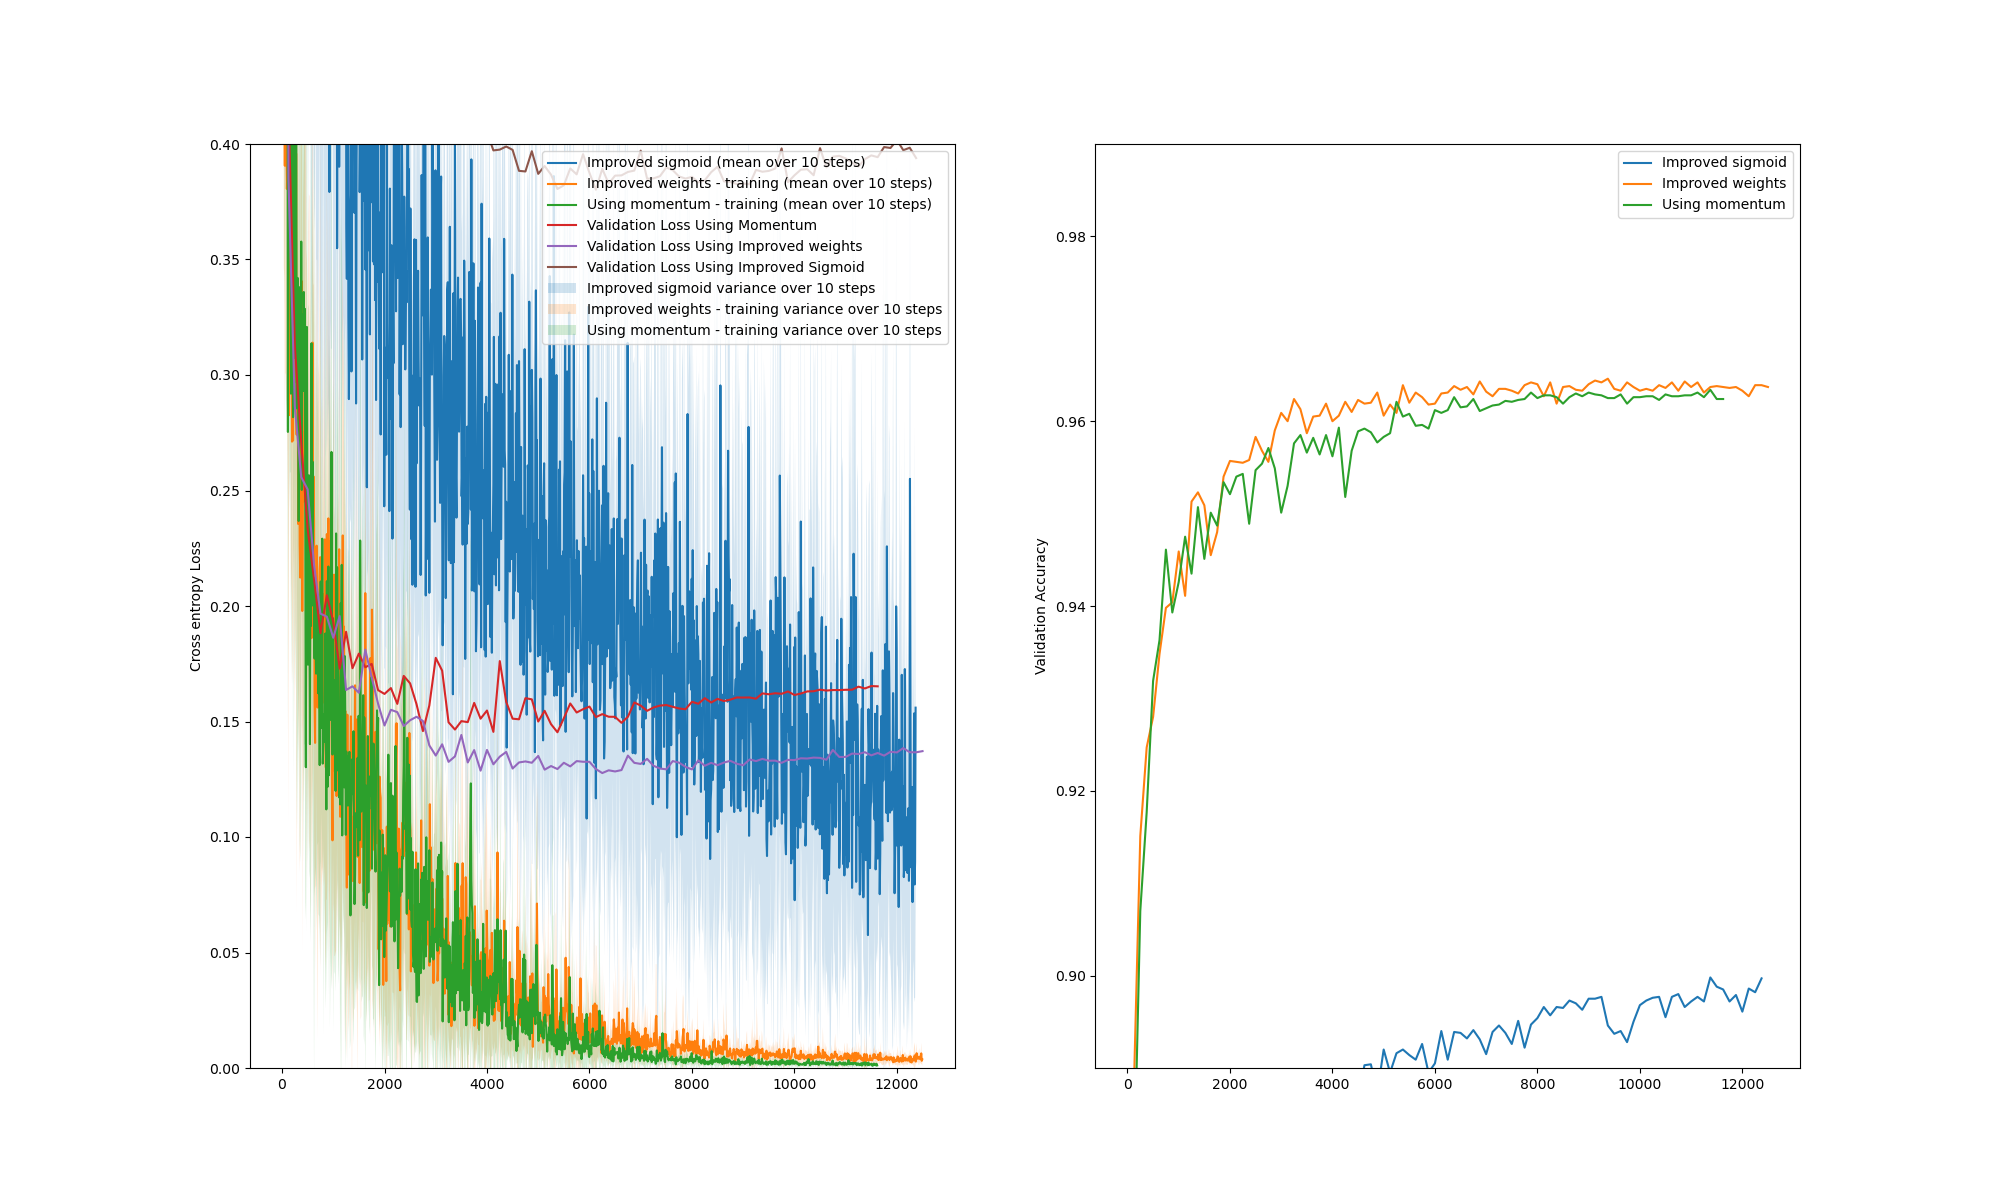
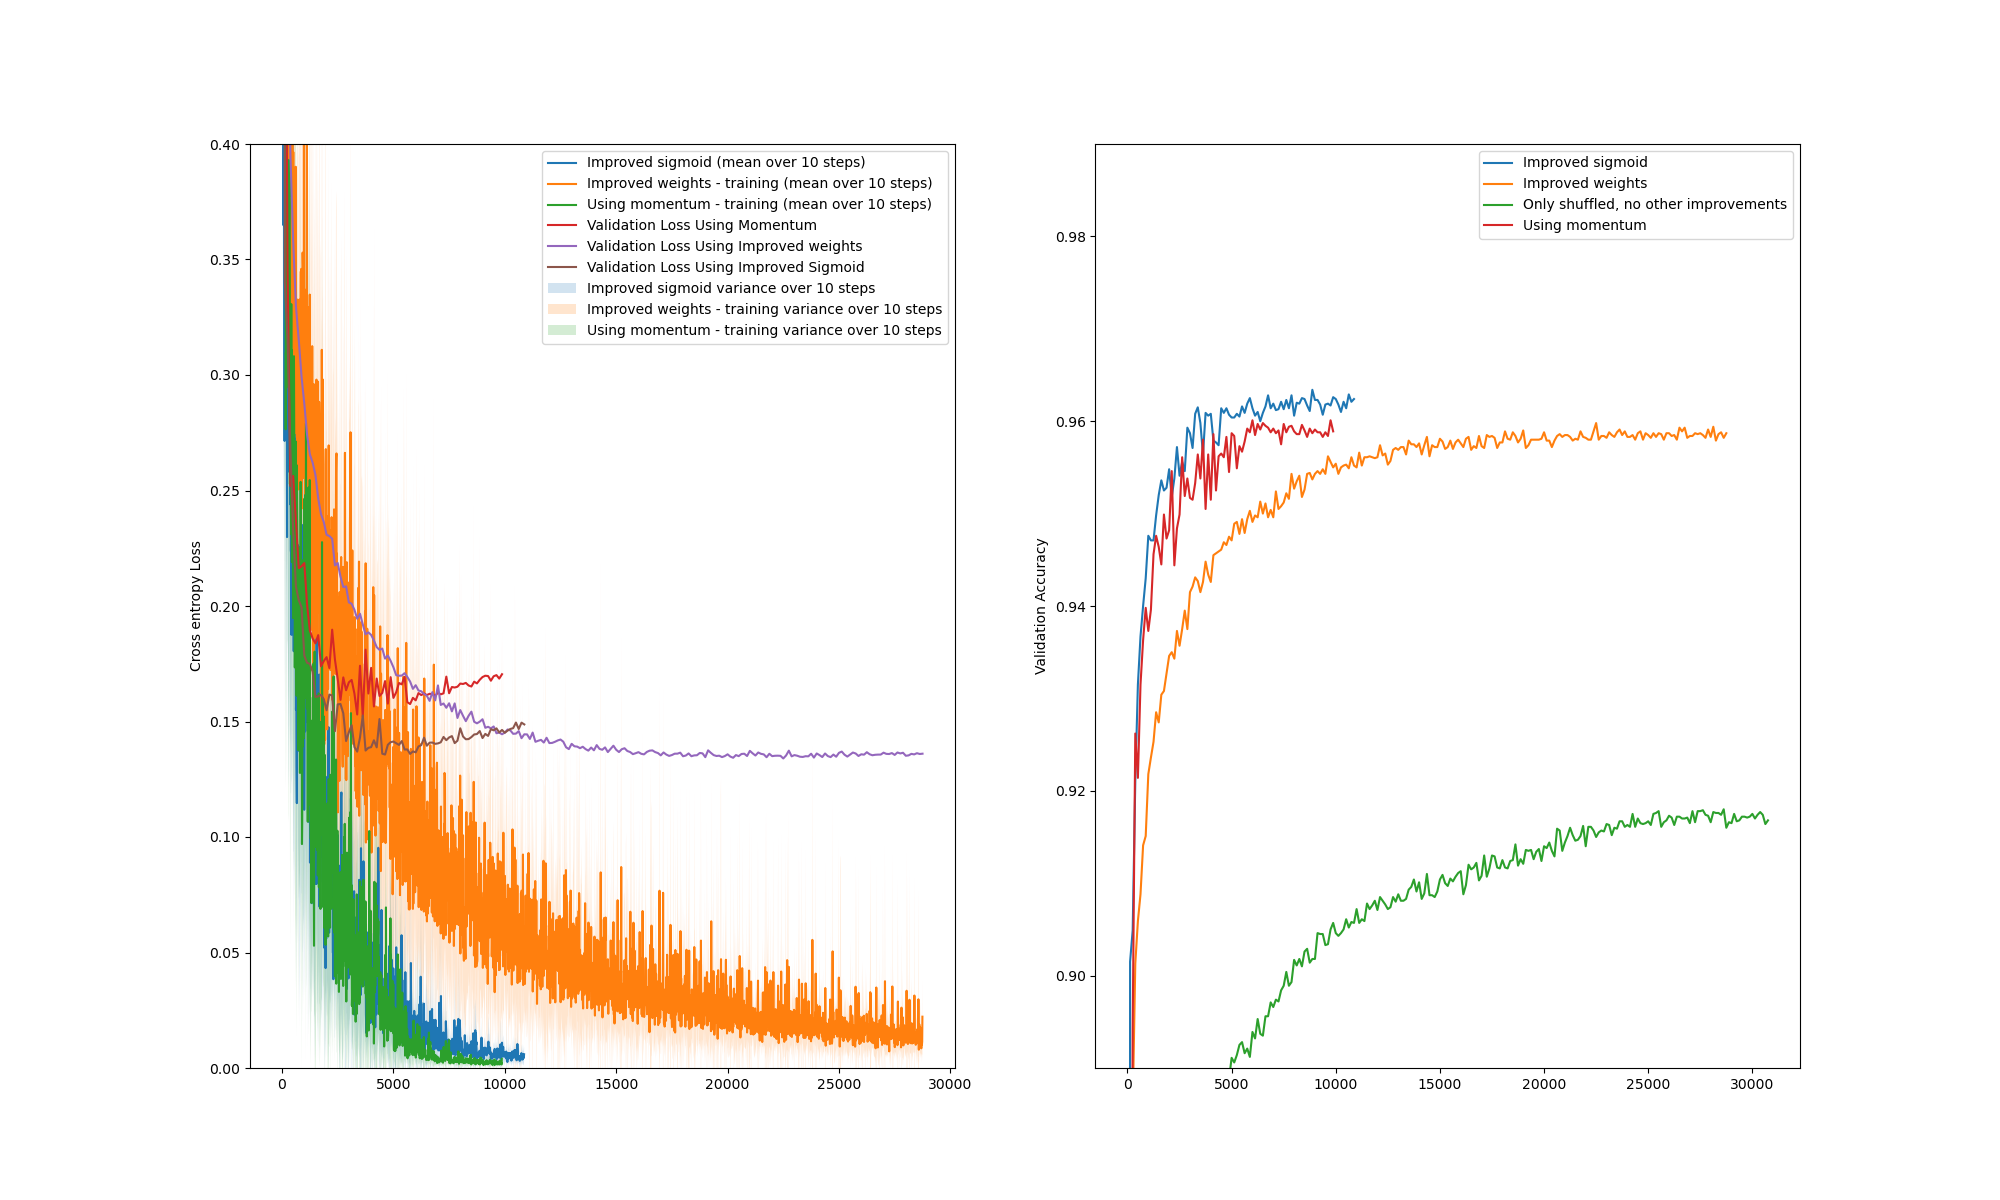
lessgo

diff --git a/assignment2/task3.py b/assignment2/task3.py
@@ -29,7 +29,7 @@ if __name__ == "__main__":
     ##########################
     # Shuffled vs unshuffled #
     ##########################
-    '''
+    
     shuffle_data = True
     model = SoftmaxModel(
         neurons_per_layer,
@@ -42,7 +42,7 @@ if __name__ == "__main__":
     )
     train_history_shuffled, val_history_shuffled = trainer.train(num_epochs)
     
-
+    '''
     shuffle_data = False
     model_no_shuffle = SoftmaxModel(
         neurons_per_layer,
@@ -55,6 +55,7 @@ if __name__ == "__main__":
     )
     train_history_unshuffled, val_history_unshuffled= trainer_shuffle.train(
         num_epochs)
+    
 
     plt.figure(figsize=(20, 12))
     plt.subplot(1, 2, 1)
@@ -81,22 +82,8 @@ if __name__ == "__main__":
     #################
     #Task 3 below   #
     #################
-    '''
-    shuffle_data = True
-    use_improved_sigmoid= True
-    model = SoftmaxModel(
-        neurons_per_layer,
-        use_improved_sigmoid,
-        use_improved_weight_init)
-    trainer = SoftmaxTrainer(
-        momentum_gamma, use_momentum,
-        model, learning_rate, batch_size, shuffle_data,
-        X_train, Y_train, X_val, Y_val,
-    )
-    train_history, val_history = trainer.train(num_epochs)
-    
+    shuffle_data = True #Shuffling data is generally a good thing, so we'll just do it as a fundamental thing.
 
-    
     use_improved_weight_init = True
     model_no_shuffle = SoftmaxModel(
         neurons_per_layer,
@@ -109,7 +96,19 @@ if __name__ == "__main__":
     )
     train_history_weights, val_history_weights= trainer_shuffle.train(
         num_epochs)
-    shuffle_data = True
+
+
+    use_improved_sigmoid= True
+    model = SoftmaxModel(
+        neurons_per_layer,
+        use_improved_sigmoid,
+        use_improved_weight_init)
+    trainer = SoftmaxTrainer(
+        momentum_gamma, use_momentum,
+        model, learning_rate, batch_size, shuffle_data,
+        X_train, Y_train, X_val, Y_val,
+    )
+    train_history, val_history = trainer.train(num_epochs)
 
 
     
@@ -147,6 +146,8 @@ if __name__ == "__main__":
         val_history["accuracy"], "Improved sigmoid")
     utils.plot_loss(
         val_history_weights["accuracy"], "Improved weights")
+    utils.plot_loss(
+        val_history_shuffled["accuracy"], "Only shuffled, no other improvements")
     
     utils.plot_loss(
         val_history_final["accuracy"], "Using momentum")
@@ -157,7 +158,6 @@ if __name__ == "__main__":
     
     
     
-    '''
     
     ##############################
     #Task 4 a and b below        #
@@ -247,7 +247,7 @@ if __name__ == "__main__":
     ################
     # Task 4d)     #
     ################
-    
+    '''
     neurons_per_layer = [48,48,10]
     shuffle_data = True
     use_improved_sigmoid= True
@@ -280,9 +280,9 @@ if __name__ == "__main__":
     plt.legend()
     #plt.savefig("task4d.png")
     plt.show()
+    '''
     
-    
-    
+    '''
     ###################
     # Task 4e)        #
     ###################
@@ -329,6 +329,6 @@ if __name__ == "__main__":
     plt.legend()
     plt.savefig("task4_e.png")
     plt.show()
-    
+    '''
 
     

diff --git a/assignment2/task2.py b/assignment2/task2.py
@@ -60,9 +60,9 @@ class SoftmaxTrainer(BaseTrainer):
 
         if (self.use_momentum):
            for i,grad in enumerate(model.grads):
-                #self.previous_grads[i] = self.learning_rate*grad + self.momentum_gamma*self.previous_grads[i]
+                
                 model.ws[i] -= self.learning_rate*self.previous_grads[i]
-                #self.previous_grads[i] = self.learning_rate*grad + self.momentum_gamma*self.previous_grads[i]
+            
                 self.previous_grads[i] = grad + self.momentum_gamma*self.previous_grads[i]
         else:
 
